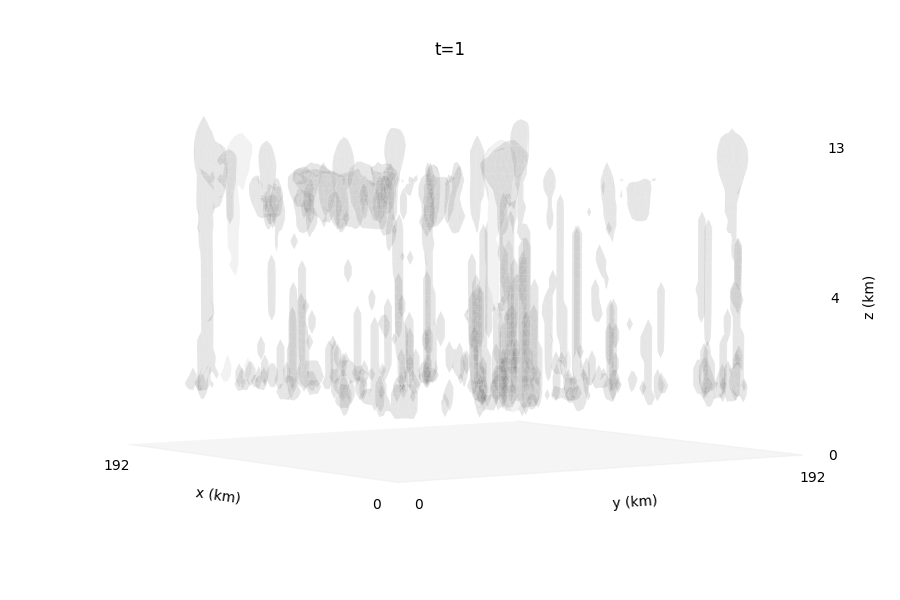
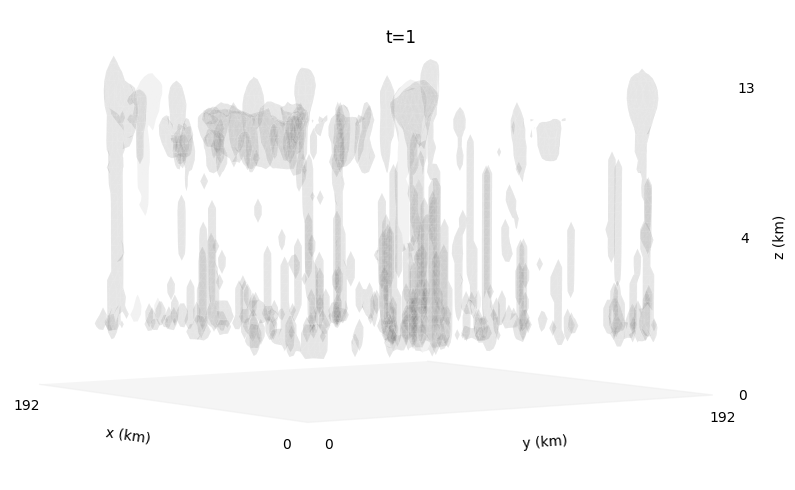
Add files via upload

diff --git a/animation.py b/animation.py
@@ -6,6 +6,7 @@ import numpy as np
 import matplotlib as mpl
 mpl.use('Agg')
 import matplotlib.pyplot as plt
+from PIL import Image
 from mpl_toolkits.mplot3d.art3d import Poly3DCollection
 
 from skimage import measure
@@ -86,15 +87,22 @@ def plot_cond(time,ds,outDir=''):
 
 
 
-
-    plt.title('t='+str(time+1))
+    ax.text2D(0.53, 0.85, 't='+str(time+1), transform=ax.transAxes,size=12)
+    # plt.title('t='+str(time+1))
     plt.tight_layout()
     # plt.show()
-    plt.savefig(outDir+'img'+str(time).zfill(4)+'.png')
+    fname=outDir+'img'+str(time).zfill(4)+'.png'
+    plt.savefig(fname)
     plt.close("all")
+    im=Image.open(fname)
+    
+    croppedIm = im.crop((90, 60, 885, 550)) #left top right bottom
+    croppedIm.save(fname)
     return
 
 for time in range(start,end):
     plot_cond(time,ds)
+
     
-os.system('convert  -loop 1 -extent 900x584 img*png animation.gif ')
+# os.system('convert  -loop 1 -extent 900x584 img000*png animation.gif ')
+os.system('convert  -loop 1  img*png animation.gif ')
